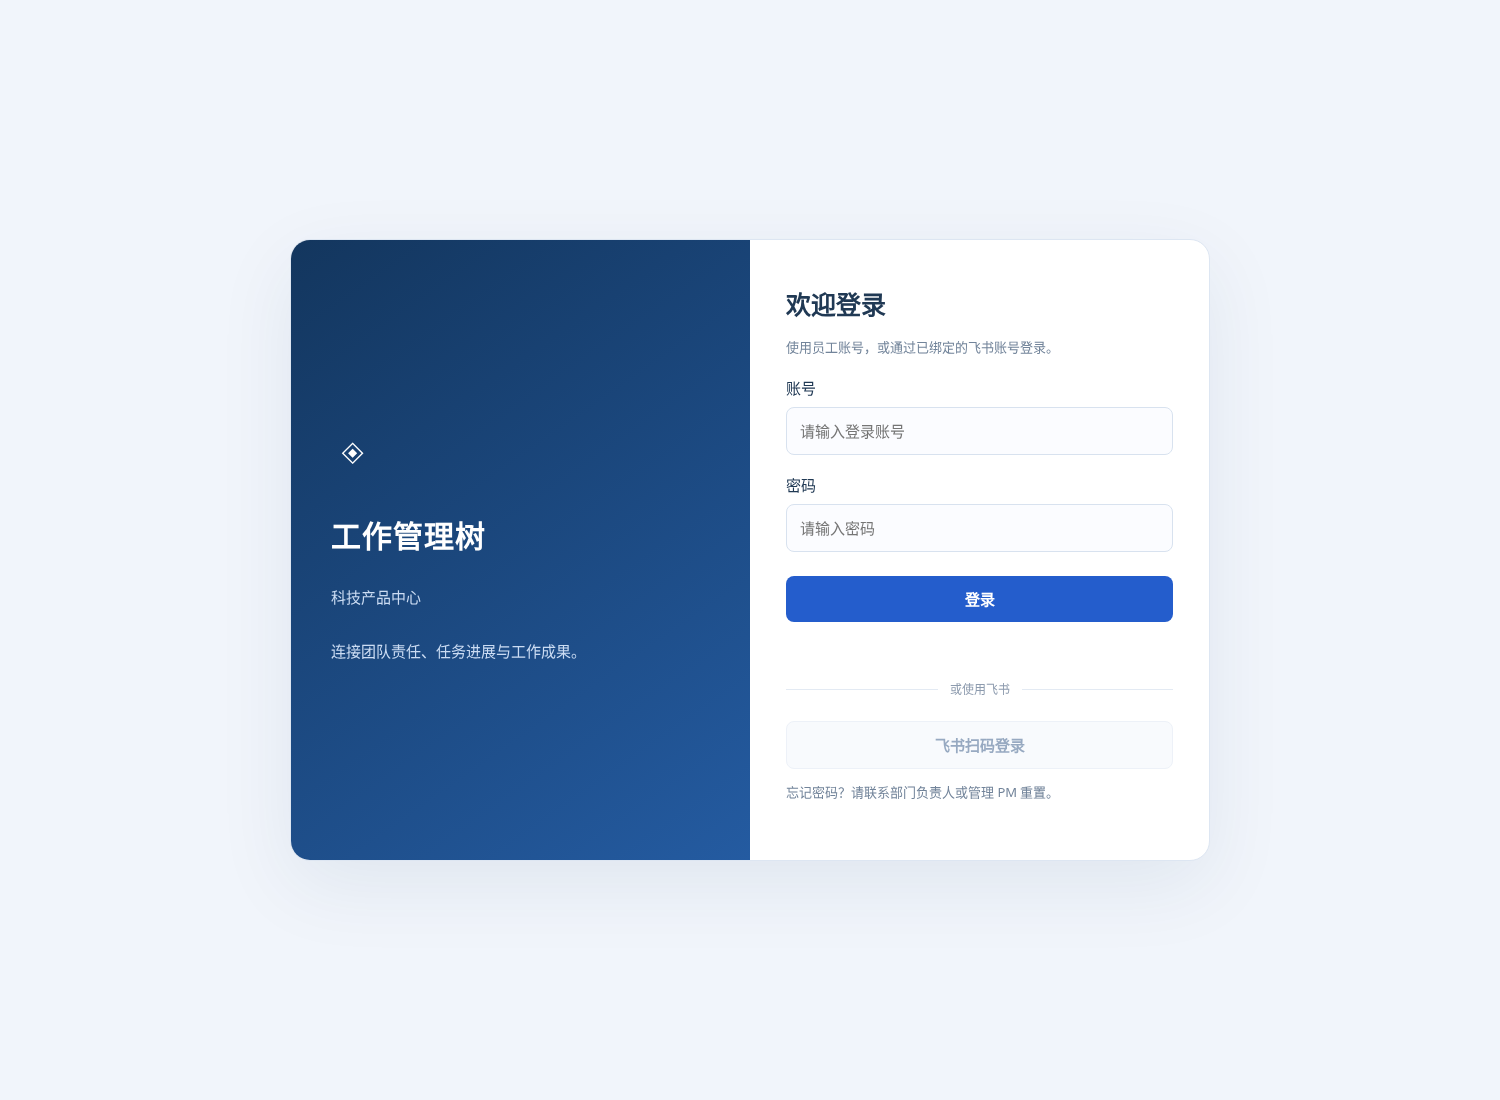
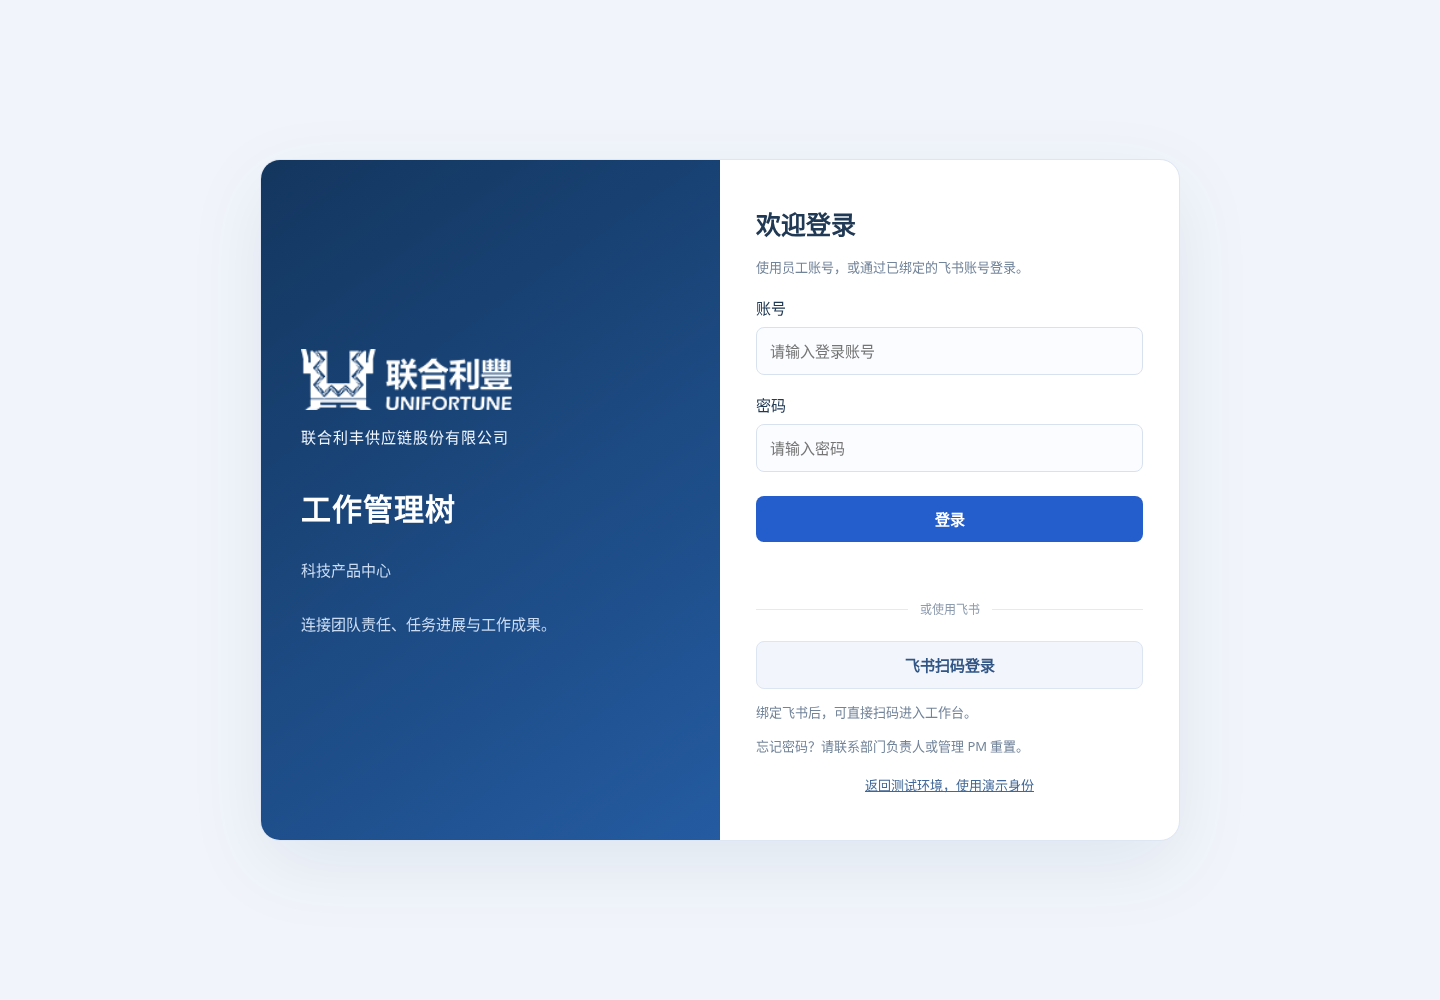
style: add Unifortune company branding to the login page

Changed region(s): [[0.1562, 0.155, 0.8125, 0.837]]

diff --git a/static/login.html b/static/login.html
@@ -1,6 +1,6 @@
-<!doctype html><html lang="zh-CN"><head><meta charset="utf-8"><meta name="viewport" content="width=device-width, initial-scale=1"><title>登录 · 工作管理树</title><style>
-*{box-sizing:border-box}body{margin:0;background:#f1f5fb;font:15px/1.6 -apple-system,BlinkMacSystemFont,'Microsoft YaHei',sans-serif;color:#203954;min-height:100vh;display:grid;place-items:center;padding:24px}.login-shell{width:min(920px,100%);display:grid;grid-template-columns:1fr 1fr;border:1px solid #dde6f2;border-radius:20px;overflow:hidden;box-shadow:0 24px 80px #12335b13;background:#fff}.brand{padding:52px 40px;color:#fff;background:linear-gradient(145deg,#13365e,#245ba1);display:flex;flex-direction:column;justify-content:center}.brand h1{font-size:30px;margin:0 0 10px;letter-spacing:1px}.brand p{color:#cbdcf3}.brand .mark{font-size:36px;margin-bottom:32px}.login-card{padding:44px 36px}.login-card h2{margin:0 0 6px;font-size:25px}.muted{font-size:13px;color:#72849a}label{display:block;margin:18px 0 7px;font-weight:500}input,button{width:100%;font:inherit;border-radius:8px;padding:11px 13px}input{border:1px solid #d8e2ef;background:#fbfcff}input:focus{outline:2px solid #c7d9fc;border-color:#467bd2}button{border:0;background:#245dcc;color:white;cursor:pointer;font-weight:600}button:disabled{opacity:.5;cursor:default}form button{margin-top:24px}.divider{text-align:center;margin:22px 0;color:#8d9bae;font-size:12px;display:flex;align-items:center;gap:12px}.divider:before,.divider:after{content:'';height:1px;background:#e3eaf3;flex:1}.secondary{background:#f2f6fc;color:#315685;border:1px solid #dce5f2}.status{min-height:24px;color:#bc3030;font-size:13px;margin:12px 0 0}.demo-link{display:block;text-align:center;color:#416897;margin-top:18px;font-size:13px}a{color:#245dcc}[hidden]{display:none!important}@media(max-width:640px){.login-shell{grid-template-columns:1fr;max-width:440px}.brand{padding:25px 30px}.brand .mark{display:none}.brand h1{font-size:23px}.brand p{margin:4px 0}.login-card{padding:28px}}
-</style></head><body><main class="login-shell"><section class="brand"><div class="mark">◈</div><h1>工作管理树</h1><p>科技产品中心</p><p>连接团队责任、任务进展与工作成果。</p></section><section class="login-card"><h2>欢迎登录</h2><p class="muted">使用员工账号，或通过已绑定的飞书账号登录。</p><form id="loginForm"><label for="loginName">账号</label><input id="loginName" autocomplete="username" required maxlength="64" placeholder="请输入登录账号"><label for="loginPassword">密码</label><input id="loginPassword" type="password" autocomplete="current-password" required maxlength="128" placeholder="请输入密码"><button id="loginSubmit" type="submit">登录</button></form><p id="loginStatus" class="status" role="status" aria-live="polite"></p><div class="divider">或使用飞书</div><button id="feishuLogin" class="secondary" type="button" disabled>飞书扫码登录</button><p id="feishuHint" class="muted"></p><p class="muted">忘记密码？请联系部门负责人或管理 PM 重置。</p><a id="demoLink" class="demo-link" href="/" hidden>返回测试环境，使用演示身份</a></section></main><script>
+<!doctype html><html lang="zh-CN"><head><meta charset="utf-8"><meta name="viewport" content="width=device-width, initial-scale=1"><title>联合利丰 · 工作管理树登录</title><style>
+*{box-sizing:border-box}body{margin:0;background:#f1f5fb;font:15px/1.6 -apple-system,BlinkMacSystemFont,'Microsoft YaHei',sans-serif;color:#203954;min-height:100vh;display:grid;place-items:center;padding:24px}.login-shell{width:min(920px,100%);display:grid;grid-template-columns:1fr 1fr;border:1px solid #dde6f2;border-radius:20px;overflow:hidden;box-shadow:0 24px 80px #12335b13;background:#fff}.brand{padding:52px 40px;color:#fff;background:linear-gradient(145deg,#13365e,#245ba1);display:flex;flex-direction:column;justify-content:center}.brand h1{font-size:30px;margin:0 0 10px;letter-spacing:1px}.brand p{color:#cbdcf3}.company-brand{margin-bottom:36px}.company-logo{display:block;width:212px;max-width:100%;height:auto}.brand .company-name{font-size:15px;letter-spacing:1px;color:#eef5ff;margin:15px 0 0}.login-card{padding:44px 36px}.login-card h2{margin:0 0 6px;font-size:25px}.muted{font-size:13px;color:#72849a}label{display:block;margin:18px 0 7px;font-weight:500}input,button{width:100%;font:inherit;border-radius:8px;padding:11px 13px}input{border:1px solid #d8e2ef;background:#fbfcff}input:focus{outline:2px solid #c7d9fc;border-color:#467bd2}button{border:0;background:#245dcc;color:white;cursor:pointer;font-weight:600}button:disabled{opacity:.5;cursor:default}form button{margin-top:24px}.divider{text-align:center;margin:22px 0;color:#8d9bae;font-size:12px;display:flex;align-items:center;gap:12px}.divider:before,.divider:after{content:'';height:1px;background:#e3eaf3;flex:1}.secondary{background:#f2f6fc;color:#315685;border:1px solid #dce5f2}.status{min-height:24px;color:#bc3030;font-size:13px;margin:12px 0 0}.demo-link{display:block;text-align:center;color:#416897;margin-top:18px;font-size:13px}a{color:#245dcc}[hidden]{display:none!important}@media(max-width:640px){.login-shell{grid-template-columns:1fr;max-width:440px}.brand{padding:25px 30px}.company-brand{margin-bottom:18px}.company-logo{width:158px}.brand .company-name{font-size:12px;letter-spacing:.5px;margin-top:10px}.brand h1{font-size:23px}.brand p{margin:4px 0}.login-card{padding:28px}}
+</style></head><body><main class="login-shell"><section class="brand"><div class="company-brand"><img class="company-logo" src="/static/brand/unifortune-logo.png?v=20261106-1" alt="联合利丰 UNIFORTUNE" width="176" height="50"><p class="company-name">联合利丰供应链股份有限公司</p></div><h1>工作管理树</h1><p>科技产品中心</p><p>连接团队责任、任务进展与工作成果。</p></section><section class="login-card"><h2>欢迎登录</h2><p class="muted">使用员工账号，或通过已绑定的飞书账号登录。</p><form id="loginForm"><label for="loginName">账号</label><input id="loginName" autocomplete="username" required maxlength="64" placeholder="请输入登录账号"><label for="loginPassword">密码</label><input id="loginPassword" type="password" autocomplete="current-password" required maxlength="128" placeholder="请输入密码"><button id="loginSubmit" type="submit">登录</button></form><p id="loginStatus" class="status" role="status" aria-live="polite"></p><div class="divider">或使用飞书</div><button id="feishuLogin" class="secondary" type="button" disabled>飞书扫码登录</button><p id="feishuHint" class="muted"></p><p class="muted">忘记密码？请联系部门负责人或管理 PM 重置。</p><a id="demoLink" class="demo-link" href="/" hidden>返回测试环境，使用演示身份</a></section></main><script>
 const $=s=>document.querySelector(s),messages={expired:'扫码已过期，请重新尝试。',unbound:'此飞书账号尚未绑定员工，请先用账号密码登录，在个人中心扫码绑定。',not_configured:'飞书网页登录尚未完成回调配置，请先使用账号密码。',authorization_failed:'飞书授权未完成，请重试。',cancelled:'已取消飞书授权，可重新扫码或使用账号密码。'};
 $('#loginStatus').textContent=messages[new URLSearchParams(location.search).get('login_error')]||'';
 fetch('/api/auth/options',{cache:'no-store'}).then(r=>r.json()).then(state=>{$('#feishuLogin').disabled=!state.feishu_ready;$('#feishuHint').textContent=state.feishu_ready?'绑定飞书后，可直接扫码进入工作台。':'飞书网页登录尚未完成配置。';$('#demoLink').hidden=!state.demo_enabled;}).catch(()=>$('#loginStatus').textContent='无法获取登录配置，请刷新重试。');

diff --git a/static/index.html b/static/index.html
@@ -175,7 +175,7 @@ const fullIcon='<svg viewBox="0 0 24 24" aria-hidden="true"><path d="M8 3H3v5M16
 window.toggleTreeFullscreen=function(force){const treeCard=document.querySelector('#homePage>.grid>.card:first-child'),button=$('#treeFullscreenButton'),tree=$('#tree'),controls=$('#treeZoomControls');if(!treeCard||!button||!tree)return;const opened=force===undefined?!treeCard.classList.contains('tree-fullscreen'):force;treeCard.classList.toggle('tree-fullscreen',opened);controls?.classList.toggle('hidden',!opened);document.body.classList.toggle('tree-modal-open',opened);button.innerHTML=opened?exitFullIcon:fullIcon;button.title=opened?'退出全屏':'全屏查看';button.setAttribute('aria-label',button.title);if(opened)requestAnimationFrame(fitTreeToFullscreen);else {tree.style.zoom='';treeZoom=1;$('#treeZoomLabel').textContent='100%';syncManagementTreeHeight()}}
 document.addEventListener('keydown',event=>{if(event.key==='Escape'&&document.querySelector('.tree-fullscreen'))toggleTreeFullscreen(false)});
 const headerSubtitle=document.querySelector('header h1')?.nextElementSibling;if(headerSubtitle?.classList.contains('muted')){headerSubtitle.textContent='数智驱动 · 协同致远 · 价值共创';headerSubtitle.classList.add('brand-slogan')}
-const logoHeader=document.querySelector('header');if(logoHeader&&!document.querySelector('.ufsc-header-logo')){const logo=document.createElement('img');logo.className='ufsc-header-logo';logo.src='https://www.ufscs.com/Images/logo.png?t=20250703141831';logo.alt='联合利丰供应链股份有限公司';logo.onerror=()=>logo.remove();logoHeader.append(logo)}
+const logoHeader=document.querySelector('header');if(logoHeader&&!document.querySelector('.ufsc-header-logo')){const logo=document.createElement('img');logo.className='ufsc-header-logo';logo.src='/static/brand/unifortune-logo.png?v=20261106-1';logo.alt='联合利丰供应链股份有限公司';logo.onerror=()=>logo.remove();logoHeader.append(logo)}
 const baseLoadApprovals=loadApprovals;loadApprovals=async function(){await baseLoadApprovals();const pending=await get('/api/approvals');const actor=currentActorId();document.querySelectorAll('#approvals .task').forEach((card,index)=>{const approval=pending[index],actions=card.querySelector('.task-actions');if(approval&&actions&&Number(approval.approver_id)!==actor)actions.innerHTML='<span class="muted">仅指定确认人可操作</span>'})}
 const groupedRosterRenderer=renderOrgRosterEditable;
 renderOrgRosterEditable=async function(){await groupedRosterRenderer();const positions=window.orgRosterPositions||[],assignments=window.orgRosterAssignments||[],rank={'部门负责人':0,'管理PM':1,'Builder Team leader':2,'Trainer Team leader':2,'Builder':3,'Trainer':3},membersByPosition={};assignments.forEach(x=>(membersByPosition[x.position_id]??=[]).push(x));const ordered=positions.slice().sort((a,b)=>(rank[a.name]??9)-(rank[b.name]??9)||a.name.localeCompare(b.name,'zh-CN'));$('#positions').innerHTML=`<section class="org-info-panel"><h3>已建岗位（${ordered.length}）</h3>${ordered.map(position=>`<div class="org-info-row"><b>${esc(position.name)}</b><div class="muted">${esc(position.department_name||'未指定团队')}</div><div class="muted">已配置成员：${(membersByPosition[position.id]||[]).length?membersByPosition[position.id].map(member=>esc(member.user_name)).join('、'):'暂未配置'}</div><div class="task-actions"><button type="button" class="secondary" onclick="editPosition(${position.id})">编辑</button><button type="button" class="secondary" onclick="deletePosition(${position.id})">删除</button></div></div>`).join('')}</section>`};

diff --git a/app.py b/app.py
@@ -1973,6 +1973,8 @@ class Handler(BaseHTTPRequestHandler):
         p=urllib.parse.urlparse(self.path); q=urllib.parse.parse_qs(p.query)
         if p.path in ('/login','/login.html'):
             return self.send_bytes(200,'text/html; charset=utf-8',(ROOT/'static'/'login.html').read_bytes(),'no-store')
+        if p.path=='/static/brand/unifortune-logo.png':
+            return self.send_bytes(200,'image/png',(ROOT/'static'/'brand'/'unifortune-logo.png').read_bytes(),'public, max-age=86400')
         if p.path=='/static/accounts.js':
             return self.send_bytes(200,'application/javascript; charset=utf-8',(ROOT/'static'/'accounts.js').read_bytes(),'no-cache')
         if p.path in ('/api/auth/options','/api/me'):return self.handle_account_api(p.path)

diff --git a/artifacts/accounts-demo/README.md b/artifacts/accounts-demo/README.md
@@ -1,7 +1,10 @@
 账号界面截图使用独立测试数据库与虚构员工，不含线上账号密码。
 
-- login.png：账号密码登录及飞书扫码登录入口。
+- login.png：添加联合利丰 Logo、公司全称后的桌面登录页。
+- login-mobile.png：手机端登录页。
 - profile.png：个人资料、修改密码及飞书扫码绑定。
 
 浏览器流程验证脚本：tests/accounts.browser.cjs；服务端账号及 OAuth 回调验证：tests/test_accounts.py。
-截图中的飞书按钮未启用，表示该测试数据库对应的服务未配置飞书回调地址；相关 OAuth 绑定和后续扫码登录流程使用服务端模拟响应验证，不连接真实员工飞书。
+profile.png 来自未配置飞书回调地址的隔离测试服务，因此其中的扫码绑定按钮未启用。登录页截图来自已配置回调的测试站点，不包含登录凭据或员工资料。
+
+公司 Logo 沿用系统原有官网资源：https://www.ufscs.com/Images/logo.png ，保存为 static/brand/unifortune-logo.png，在登录页和工作台共用本地资源。
